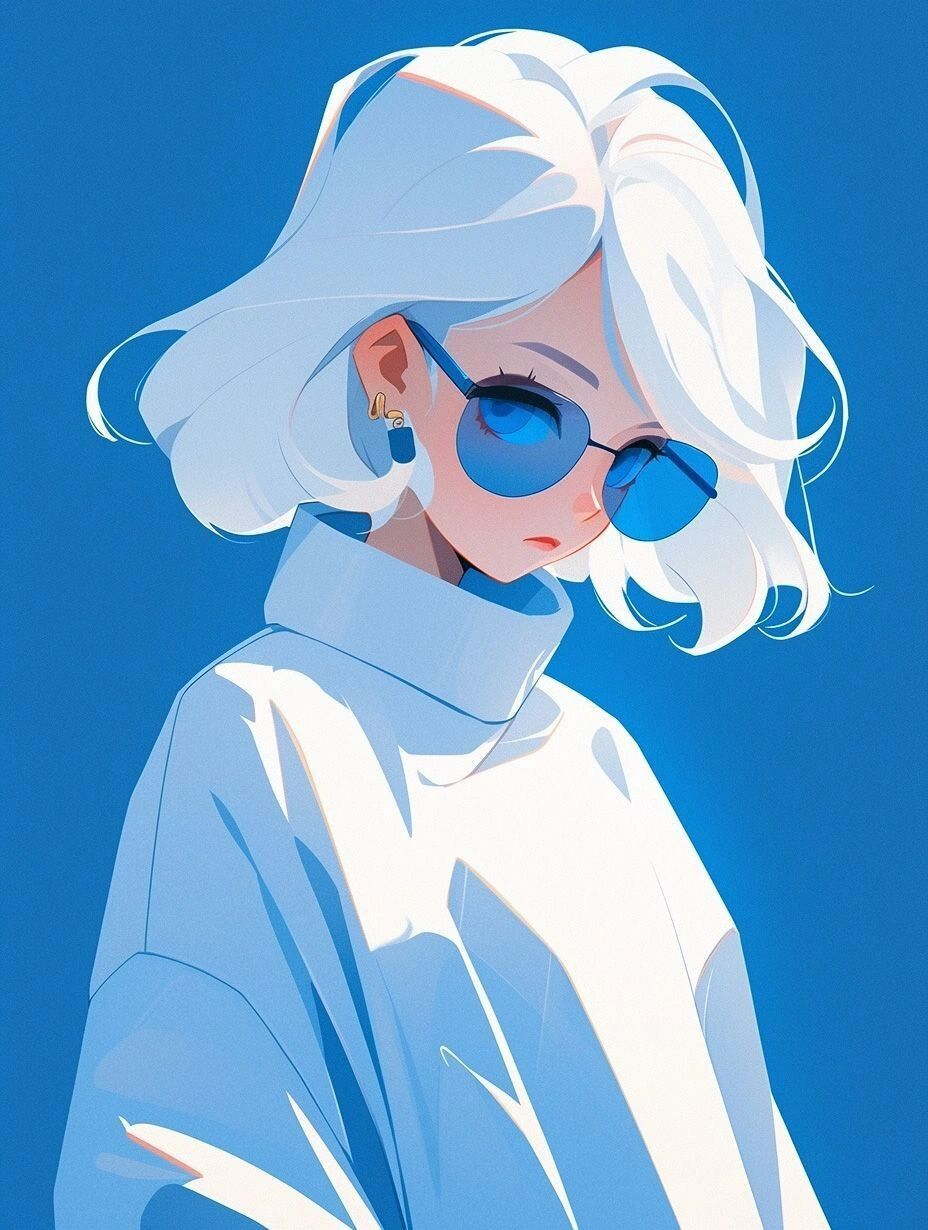
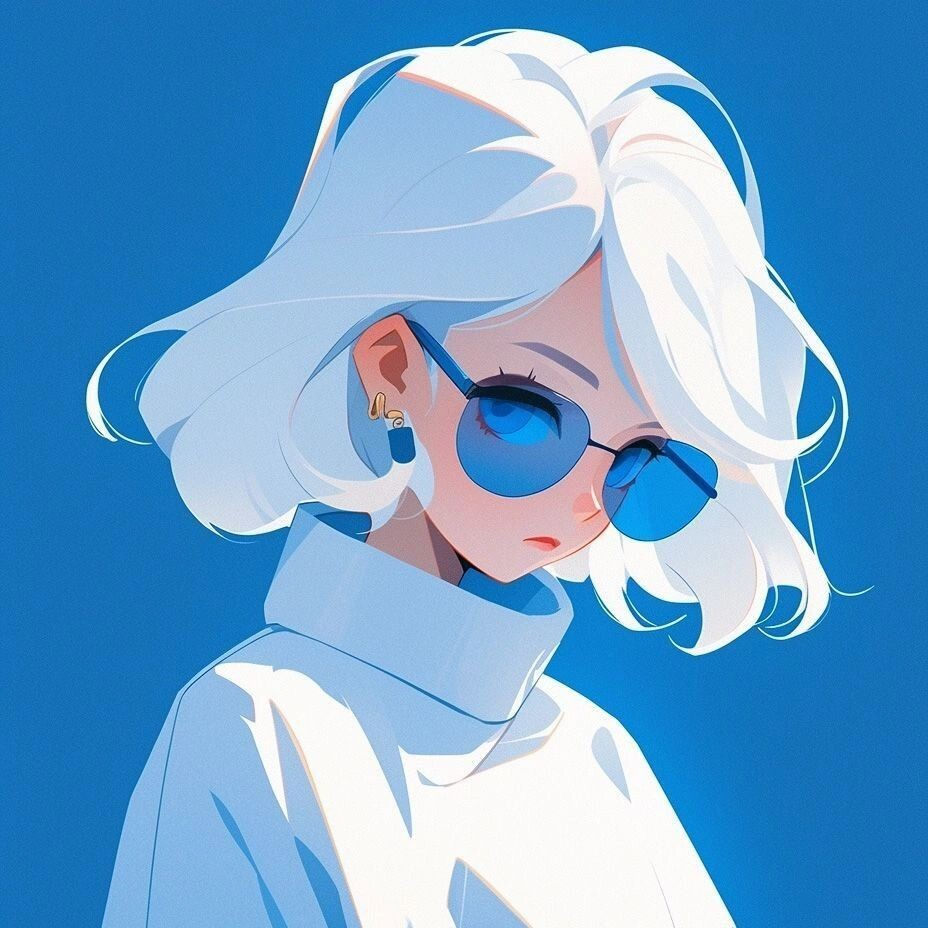
mod: image only webp

diff --git a/src/views/user-profile.html b/src/views/user-profile.html
@@ -18,7 +18,7 @@
     <div class="profile-header-wrapper relative">
         <div class="profile-cover"></div>
         <div class="profile-avatar">
-            <img src="assets/img/avatar/1.jpg" alt="avatar">
+            <img src="assets/img/avatar/1.webp" alt="avatar">
             <div class="profile-info">
                 <span class="profile-name">Ilsya Velixs</span>
                 <span class="profile-sub">Web Developer</span>
@@ -26,11 +26,11 @@
         </div>
         <div class="profile-footer">
             <div class="actions" lazy-tabs="profile" role="tablist">
-                <button class="list-item" lazy-tab="#personal" role="tab">
+                <button class="list-item is-active" lazy-tab="#personal" role="tab">
                     <i class="fa-duotone fa-circle-user"></i>
                     <span>Profile</span>
                 </button>
-                <button class="list-item is-active" lazy-tab="#followers" role="tab">
+                <button class="list-item" lazy-tab="#followers" role="tab">
                     <i class="fa-duotone fa-heart"></i>
                     <span>Followers</span>
                 </button>
@@ -43,7 +43,7 @@
     </div>
 
     <div lazy-tabs-content="profile">
-        <div class="hidden" id="personal" role="tabpanel">
+        <div id="personal" role="tabpanel">
             <div class="grid grid-cols-12 gap-6">
                 <div class="lg:col-span-4 col-span-12">
                     <div class="sticky top-20 left-0">
@@ -111,7 +111,7 @@
                             <div class="flex flex-row justify-between items-center mx-2">
                                 <div class="flex flex-row gap-x-3 items-center">
                                     <div class="w-10 h-10 rounded-full overflow-hidden">
-                                        <img class="w-full h-full object-cover object-center" src="assets/img/avatar/1.jpg" alt="avatar">
+                                        <img class="w-full h-full object-cover object-center" src="assets/img/avatar/1.webp" alt="avatar">
                                     </div>
                                     <div class="flex flex-col gap-y-1">
                                         <div class="font-semibold">Ilsya Velixs</div>
@@ -130,7 +130,7 @@
                             <div class="my-5">
                                 <p class="text-sm line-clamp-3 mb-3 mx-2">Wibu!</p>
                                 <div class="aspect-[4/2.5] rounded-xl overflow-hidden bg-gray-100 dark:bg-gray-700/30">
-                                    <img class="w-full h-full object-cover object-center" src="assets/img/thumbnails/1.jpg" alt="thumbnails">
+                                    <img class="w-full h-full object-cover object-center" src="assets/img/thumbnails/1.webp" alt="thumbnails">
                                 </div>
                             </div>
                             <!-- content end -->
@@ -164,7 +164,7 @@
                             <div class="flex flex-row justify-between items-center mx-2">
                                 <div class="flex flex-row gap-x-3 items-center">
                                     <div class="w-10 h-10 rounded-full overflow-hidden">
-                                        <img class="w-full h-full object-cover object-center" src="assets/img/avatar/1.jpg" alt="avatar">
+                                        <img class="w-full h-full object-cover object-center" src="assets/img/avatar/1.webp" alt="avatar">
                                     </div>
                                     <div class="flex flex-col gap-y-1">
                                         <div class="font-semibold">Ilsya Velixs</div>
@@ -183,7 +183,7 @@
                             <div class="my-5">
                                 <p class="text-sm line-clamp-3 mb-3 mx-2">Lorem ipsum dolor sit amet consectetur adipisicing elit. Accusantium consectetur magnam voluptas labore maxime laboriosam, consequuntur quaerat, corrupti mollitia molestiae voluptatibus reprehenderit animi necessitatibus eveniet aliquid non iste impedit voluptatem.</p>
                                 <div class="aspect-[4/2.5] rounded-xl overflow-hidden bg-gray-100 dark:bg-gray-700/30">
-                                    <img class="w-full h-full object-cover object-center" src="assets/img/thumbnails/2.jpg" alt="thumbnails">
+                                    <img class="w-full h-full object-cover object-center" src="assets/img/thumbnails/2.webp" alt="thumbnails">
                                 </div>
                             </div>
                             <!-- content end -->
@@ -214,7 +214,7 @@
             </div>
         </div>
 
-        <div id="followers" role="tabpanel">
+        <div class="hidden" id="followers" role="tabpanel">
             <div class="md:text-2xl text-lg font-bold text-gray-900 dark:text-white my-5">Followers</div>
             <!-- card users start -->
             <div class="grid xl:grid-cols-3 md:grid-cols-2 grid-cols-1 gap-5">

diff --git a/src/views/index.html b/src/views/index.html
@@ -4,21 +4,6 @@
 
 {% block content %}
 <div class="_lazy-container-sm">
-    <article class="prose max-w-none dark:prose-invert prose-img:rounded-xl prose-pre:p-0 prose-pre:m-0 prose-pre:bg-transparent prose-pre:rounded-none">
-        <img src="https://i.pinimg.com/originals/c2/42/79/c24279cfce722984fe2a2d61df0252b0.jpg" alt="">
-        <div class="flex justify-center">
-            <button lazy-theme-toggle class="btn text-white bg-primary-300 ripple flex items-center justify-center gap-x-2">
-                <i class="fa-duotone fa-alien-8bit"></i>
-                Change Theme
-            </button>
-        </div>
-        <p>Lorem ipsum dolor sit amet consectetur adipisicing elit. Ullam laboriosam veniam assumenda ratione odio eligendi atque quo debitis quia hic? Quo officiis veritatis harum excepturi saepe provident obcaecati id sequi.</p>
-        <p>Lorem ipsum dolor sit amet consectetur adipisicing elit. Veniam vero ipsum itaque nobis magnam ex nostrum iure, inventore cupiditate delectus!</p>
-        <p>Lorem ipsum dolor sit amet consectetur adipisicing elit. Quam nemo voluptates sit possimus velit eius architecto accusantium laudantium distinctio iure perferendis amet quae esse quisquam minus ea, iusto labore ullam unde aspernatur voluptatum odio, magnam eum! Quibusdam aspernatur, cum recusandae, magnam quae quidem doloremque eaque explicabo sequi autem nisi deserunt, hic voluptate totam ipsum illum minima. Aut cum architecto optio ipsa repellendus sapiente adipisci aliquid accusamus qui enim, dolores accusantium, amet nulla quas, quis fuga at voluptas reprehenderit? Quae quo tenetur quam vero ipsa aut unde consequuntur eligendi omnis nulla. Atque neque fugit repellendus. Exercitationem voluptatum et recusandae eos possimus.</p>
-        <p>Lorem ipsum dolor sit amet consectetur adipisicing elit. Quam nemo voluptates sit possimus velit eius architecto accusantium laudantium distinctio iure perferendis amet quae esse quisquam minus ea, iusto labore ullam unde aspernatur voluptatum odio, magnam eum! Quibusdam aspernatur, cum recusandae, magnam quae quidem doloremque eaque explicabo sequi autem nisi deserunt, hic voluptate totam ipsum illum minima. Aut cum architecto optio ipsa repellendus sapiente adipisci aliquid accusamus qui enim, dolores accusantium, amet nulla quas, quis fuga at voluptas reprehenderit? Quae quo tenetur quam vero ipsa aut unde consequuntur eligendi omnis nulla. Atque neque fugit repellendus. Exercitationem voluptatum et recusandae eos possimus.</p><p>Lorem ipsum dolor sit amet consectetur adipisicing elit. Quam nemo voluptates sit possimus velit eius architecto accusantium laudantium distinctio iure perferendis amet quae esse quisquam minus ea, iusto labore ullam unde aspernatur voluptatum odio, magnam eum! Quibusdam aspernatur, cum recusandae, magnam quae quidem doloremque eaque explicabo sequi autem nisi deserunt, hic voluptate totam ipsum illum minima. Aut cum architecto optio ipsa repellendus sapiente adipisci aliquid accusamus qui enim, dolores accusantium, amet nulla quas, quis fuga at voluptas reprehenderit? Quae quo tenetur quam vero ipsa aut unde consequuntur eligendi omnis nulla. Atque neque fugit repellendus. Exercitationem voluptatum et recusandae eos possimus.</p>
-        <p>Lorem ipsum dolor sit amet consectetur adipisicing elit. Aperiam quod sapiente, distinctio sequi repellendus sed mollitia ratione ipsa laudantium reprehenderit hic tempora voluptatem, alias veniam expedita aliquam eius rem ipsum?</p>
-        <img src="https://cdna.artstation.com/p/assets/images/images/032/732/626/large/chuang-ma-highresscreenshot00050-02.jpg" alt="">
-    </article>
 </div>
 {% endblock %}
 

diff --git a/src/views/ui-cards.html b/src/views/ui-cards.html
@@ -35,7 +35,7 @@
     &lt;div class=&quot;lazy-card&quot;&gt;
         &lt;div class=&quot;lazy-card-body !p-2&quot;&gt;
             &lt;div class=&quot;lazy-card-img rounded-lg&quot;&gt;
-                &lt;img src=&quot;assets/img/thumbnails/1.jpg&quot; alt=&quot;cover&quot;&gt;
+                &lt;img src=&quot;assets/img/thumbnails/1.webp&quot; alt=&quot;cover&quot;&gt;
             &lt;/div&gt;
             &lt;div class=&quot;mt-2 p-1 flex flex-col gap-y-2&quot;&gt;
                 &lt;div class=&quot;flex flex-row flex-wrap gap-x-2 items-center&quot;&gt;
@@ -60,7 +60,7 @@
                 <div class="lazy-card">
                     <div class="lazy-card-body !p-2">
                         <div class="lazy-card-img rounded-lg">
-                            <img src="assets/img/thumbnails/1.jpg" alt="cover">
+                            <img src="assets/img/thumbnails/1.webp" alt="cover">
                         </div>
                         <div class="mt-2 p-1 flex flex-col gap-y-2">
                             <div class="flex flex-row flex-wrap gap-x-2 items-center">
@@ -79,7 +79,7 @@
                 <div class="lazy-card">
                     <div class="lazy-card-body !p-2">
                         <div class="lazy-card-img rounded-lg">
-                            <img src="assets/img/thumbnails/3.jpg" alt="cover">
+                            <img src="assets/img/thumbnails/2.webp" alt="cover">
                         </div>
                         <div class="mt-2 p-1 flex flex-col gap-y-2">
                             <div class="flex flex-row flex-wrap gap-x-2 items-center">
@@ -98,7 +98,7 @@
                 <div class="lazy-card">
                     <div class="lazy-card-body !p-2">
                         <div class="lazy-card-img rounded-lg">
-                            <img src="assets/img/thumbnails/4.jpg" alt="cover">
+                            <img src="assets/img/thumbnails/3.webp" alt="cover">
                         </div>
                         <div class="mt-2 p-1 flex flex-col gap-y-2">
                             <div class="flex flex-row flex-wrap gap-x-2 items-center">
@@ -145,7 +145,7 @@
                         </div>
                 
                         <div class="shrink-0">
-                            <img alt="Ilsya" src="assets/img/avatar/2.jpg" class="h-16 w-16 rounded-lg object-cover shadow-sm" />
+                            <img alt="Ilsya" src="assets/img/avatar/2.webp" class="h-16 w-16 rounded-lg object-cover shadow-sm" />
                         </div>
                     </div>
                 
@@ -180,7 +180,7 @@
 &lt;/div&gt;
 
 &lt;div class=&quot;shrink-0&quot;&gt;
-    &lt;img alt=&quot;Ilsya&quot; src=&quot;assets/img/avatar/2.jpg&quot; class=&quot;h-16 w-16 rounded-lg object-cover shadow-sm&quot; /&gt;
+    &lt;img alt=&quot;Ilsya&quot; src=&quot;assets/img/avatar/2.webp&quot; class=&quot;h-16 w-16 rounded-lg object-cover shadow-sm&quot; /&gt;
 &lt;/div&gt;
 &lt;/div&gt;
 

diff --git a/gulp-tasks/images.js b/gulp-tasks/images.js
@@ -2,12 +2,6 @@
 
 import { paths } from "../gulpfile.babel";
 import gulp from "gulp";
-import gulpif from "gulp-if";
-import imagemin from "gulp-imagemin";
-import imageminPngquant from "imagemin-pngquant";
-import imageminZopfli from "imagemin-zopfli";
-import imageminMozjpeg from "imagemin-mozjpeg";
-import imageminGiflossy from "imagemin-giflossy";
 import newer from "gulp-newer";
 import debug from "gulp-debug";
 import browsersync from "browser-sync";
@@ -19,36 +13,6 @@ const argv = yargs.argv,
 gulp.task("images", () => {
     return gulp.src(paths.images.src)
         .pipe(newer(paths.output(paths.images.output)))
-        .pipe(gulpif(production, imagemin([
-            imageminGiflossy({
-                optimizationLevel: 3,
-                optimize: 3,
-                lossy: 2
-            }),
-            imageminPngquant({
-                speed: 5,
-                quality: [0.6, 0.8]
-            }),
-            imageminZopfli({
-                more: true
-            }),
-            imageminMozjpeg({
-                progressive: true,
-                quality: 90
-            }),
-            imagemin.svgo({
-                plugins: [
-                    { removeViewBox: false },
-                    { removeUnusedNS: false },
-                    { removeUselessStrokeAndFill: false },
-                    { cleanupIDs: false },
-                    { removeComments: true },
-                    { removeEmptyAttrs: true },
-                    { removeEmptyText: true },
-                    { collapseGroups: true }
-                ]
-            })
-        ])))
         .pipe(gulp.dest(paths.output(paths.images.output)))
         .pipe(debug({
             "title": "Images"

diff --git a/src/views/layouts/partials/header.html b/src/views/layouts/partials/header.html
@@ -16,7 +16,7 @@
             <div lazy-dropdown-avatar class="relative" >
                 <button lazy-dropdown-toggle class="_lazy-avatar">
                     <div class="_lazy-avatar-wrapper">
-                        <img src="assets/img/avatar/1.jpg" alt="avatar">
+                        <img src="assets/img/avatar/1.webp" alt="avatar">
                     </div>
                 </button>
                 <div lazy-dropdown-content class="_lazy-avatar-content" >

diff --git a/gulpfile.babel.js b/gulpfile.babel.js
@@ -34,7 +34,7 @@ const paths = {
     },
     images: {
         src: [
-            "./src/img/**/*.{webp}",
+            "./src/img/**/*.webp",
         ],
         output: "assets/img/",
         watch: "./src/img/**/*"
